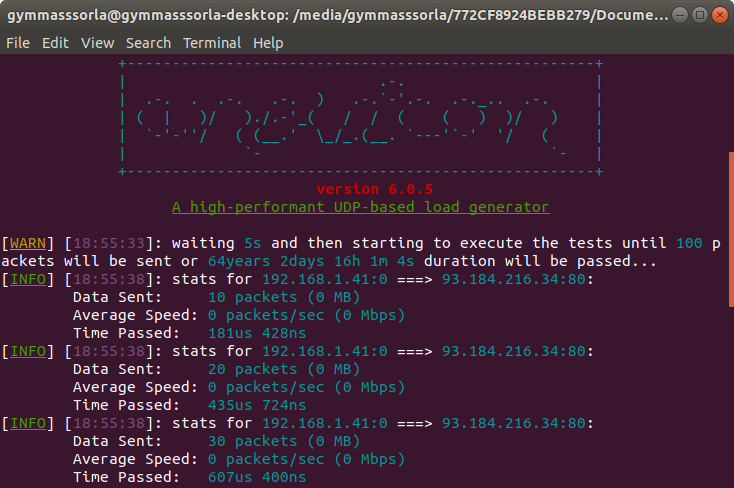
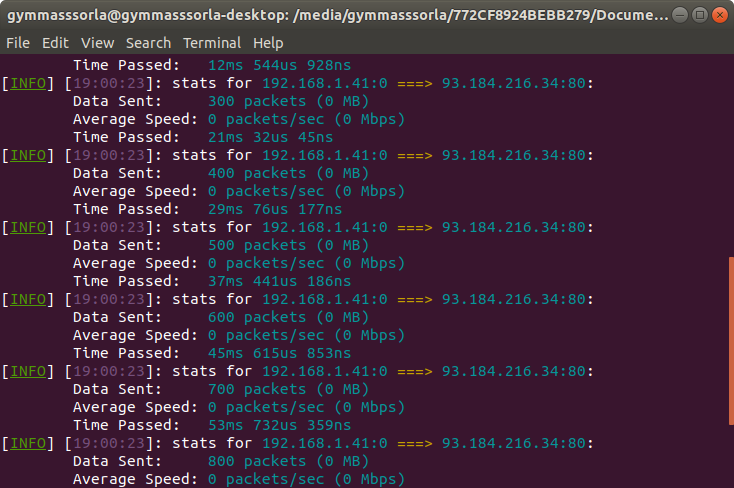
Print yellow '===>' for endpoints (core/mod.rs)

Changed region(s): [[0.0, 0.123, 1.0, 1.0], [0.9891, 0.6148, 1.0, 0.8914], [0.6894, 0.2152, 0.7193, 0.2766]]

diff --git a/src/core/mod.rs b/src/core/mod.rs
@@ -82,9 +82,11 @@ fn current_receiver() -> String {
 
 fn current_endpoints() -> String {
     format!(
-        "{sender} ===> {receiver}",
+        "{sender} {yellow}===>{reset_color} {receiver}",
         sender = current_sender(),
         receiver = current_receiver(),
+        yellow = color::Fg(color::Yellow),
+        reset_color = color::Fg(color::Reset),
     )
 }
 
